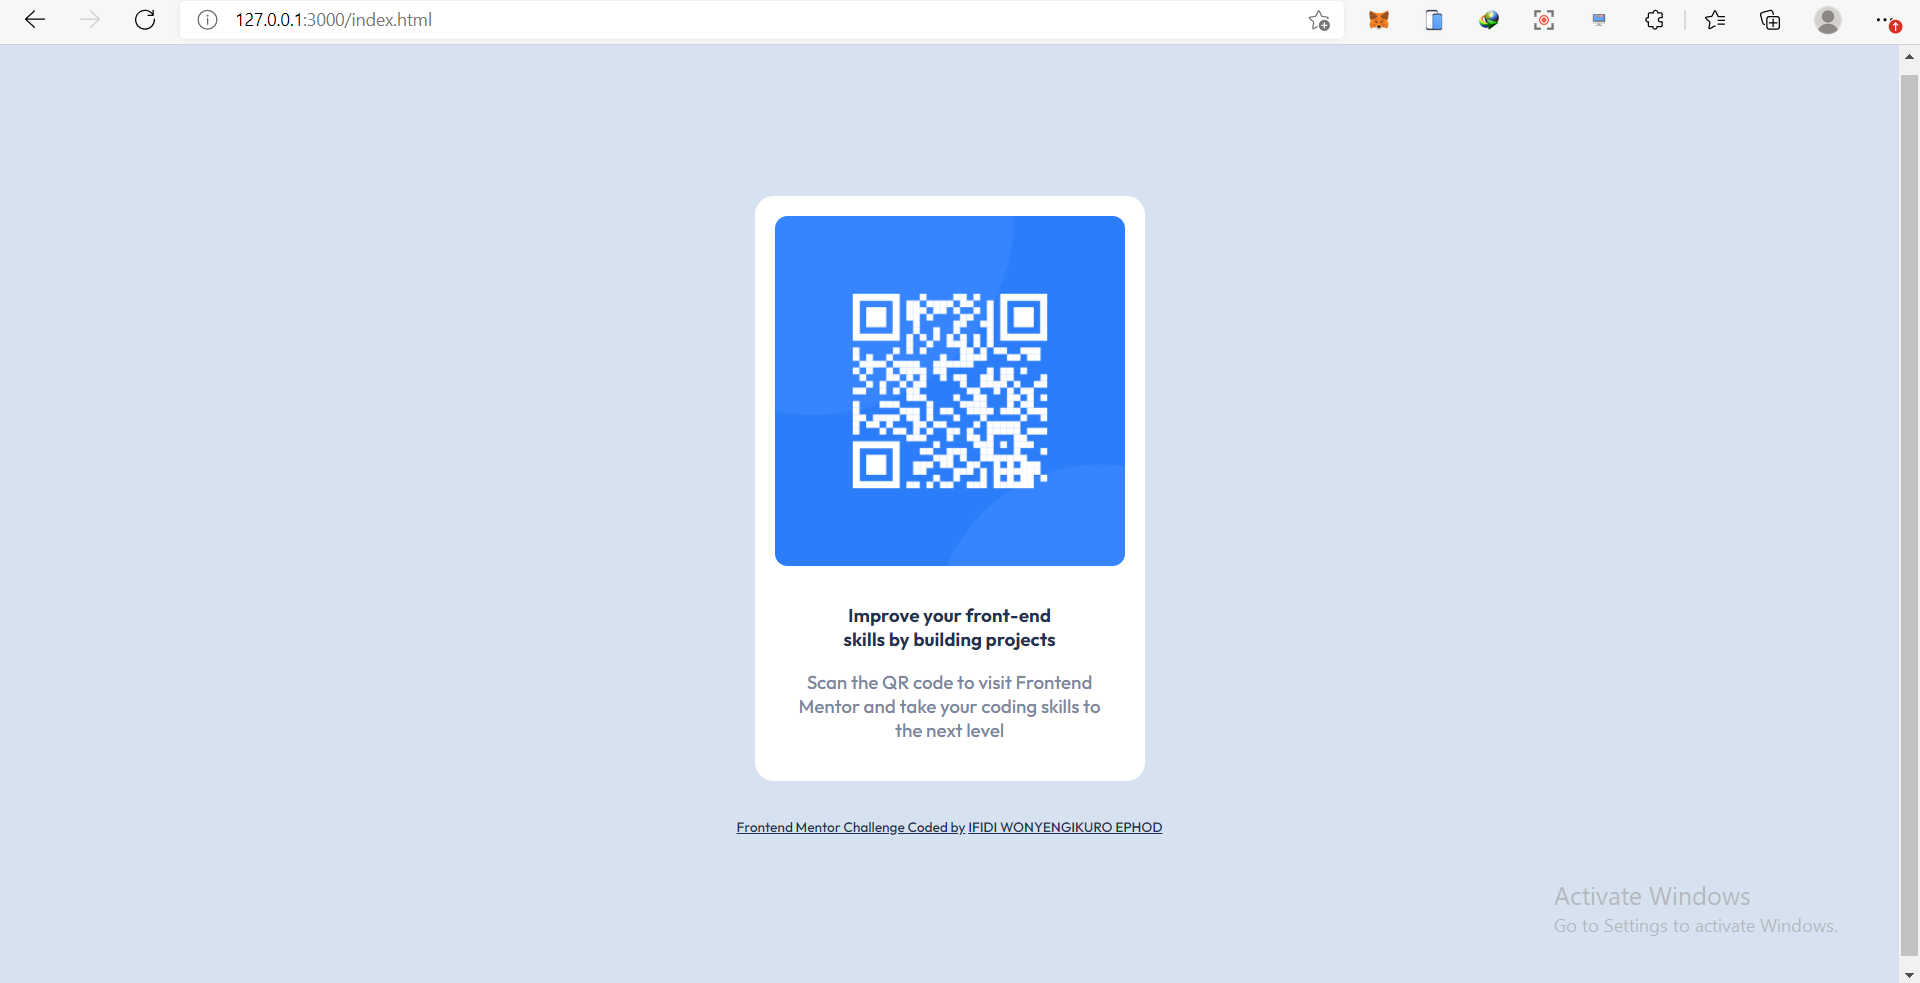
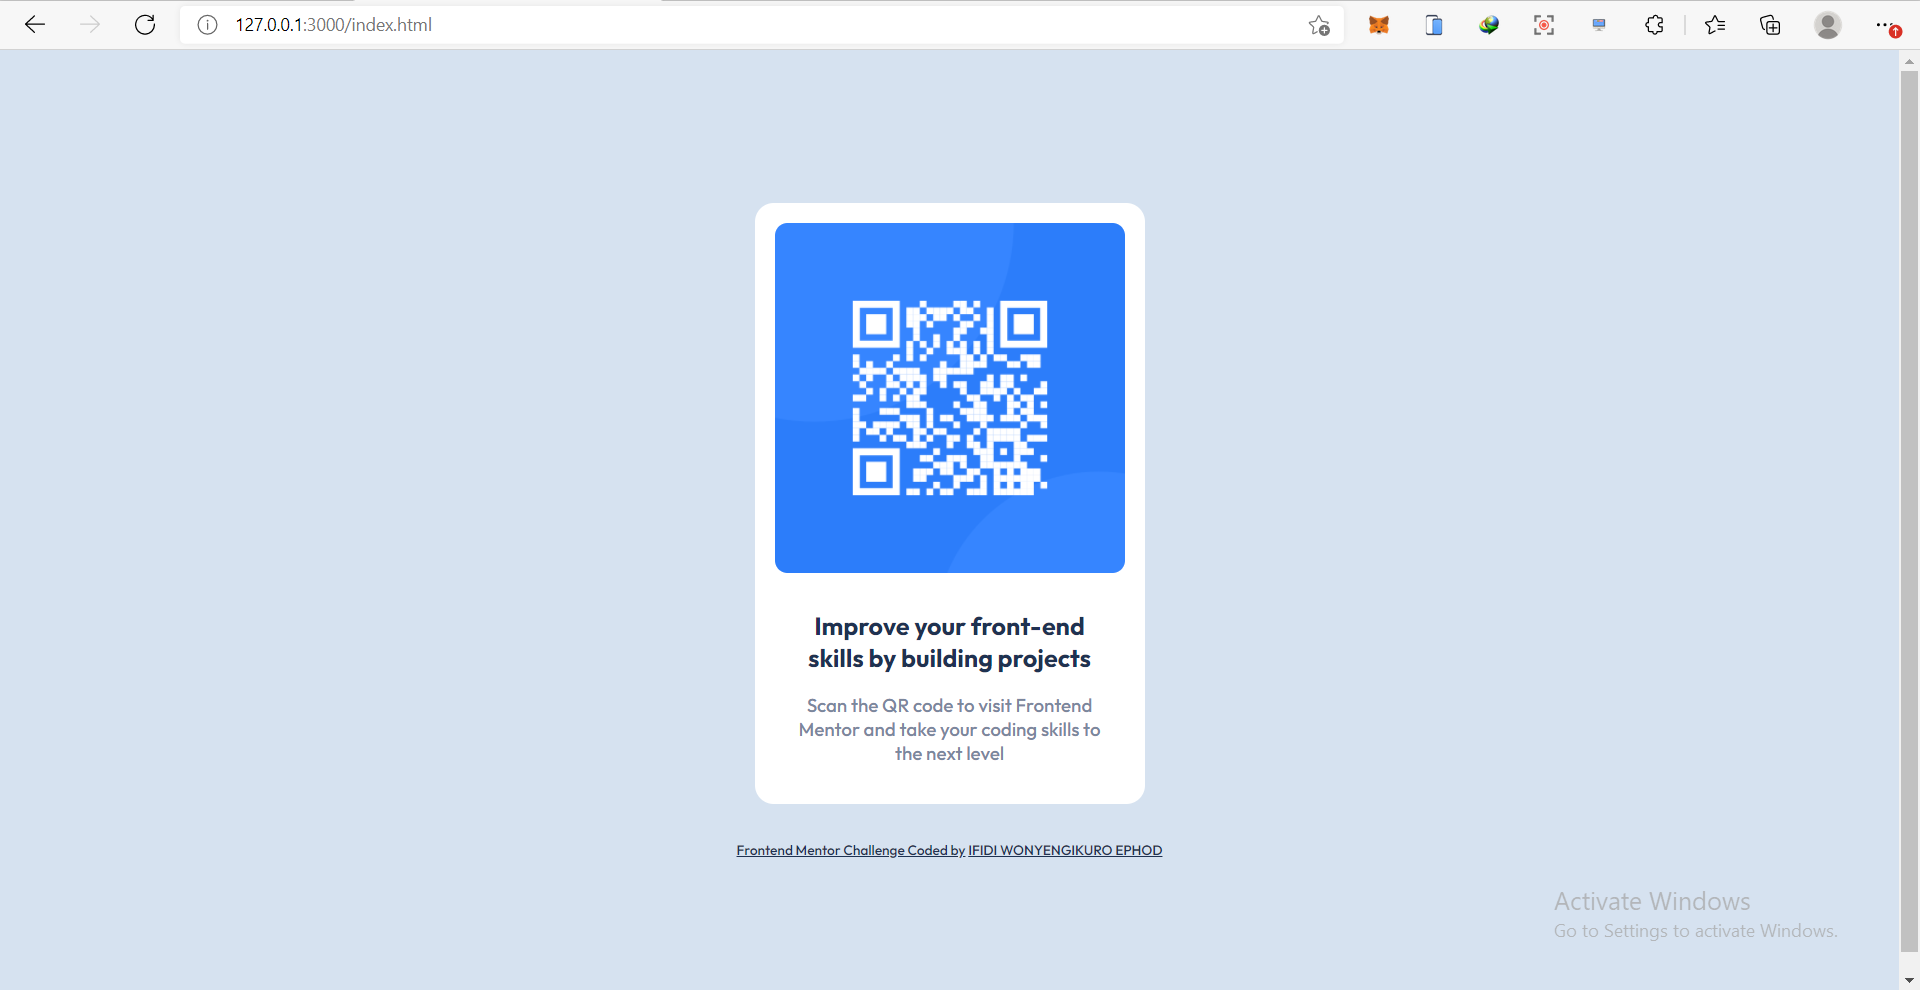
Images

diff --git a/index.html b/index.html
@@ -73,9 +73,9 @@
       }
 
       .scanMSG h1 {
-        font-size: 15px;
+        font-size: 20px;
         font-weight: 700;
-        max-width: 180px;
+        max-width: 230px;
         text-align: center;
         color: var(--Darkblue);
         margin: 20px auto 0px;
